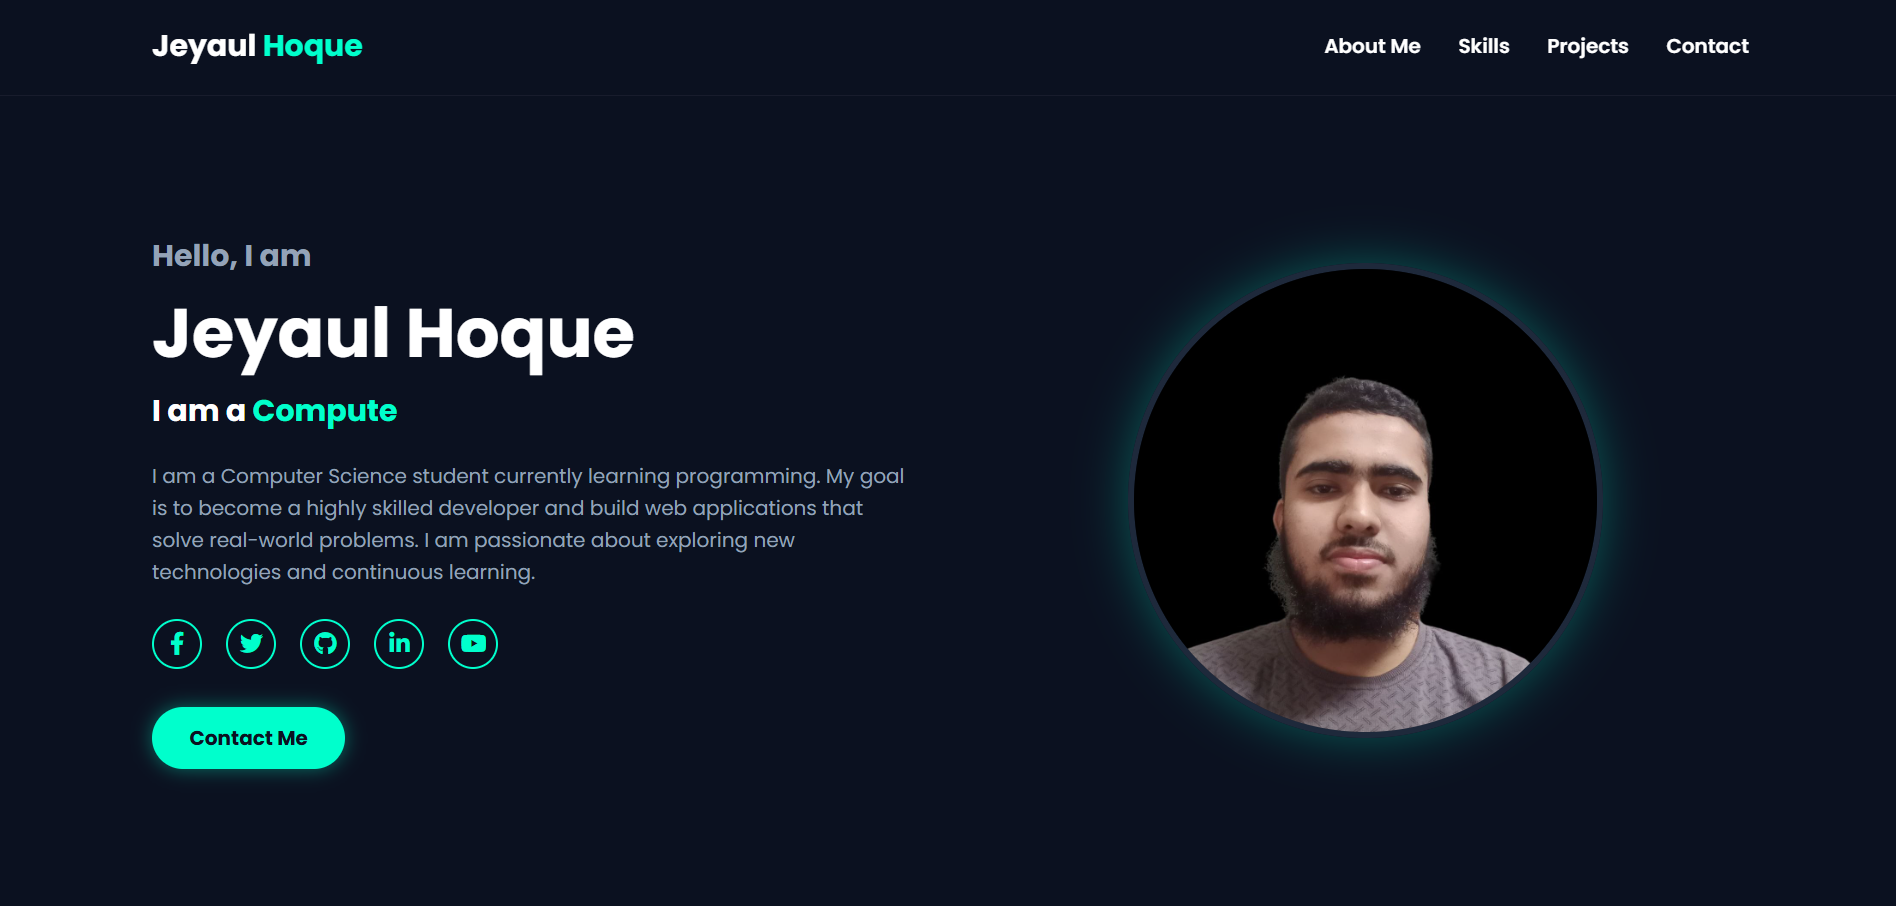
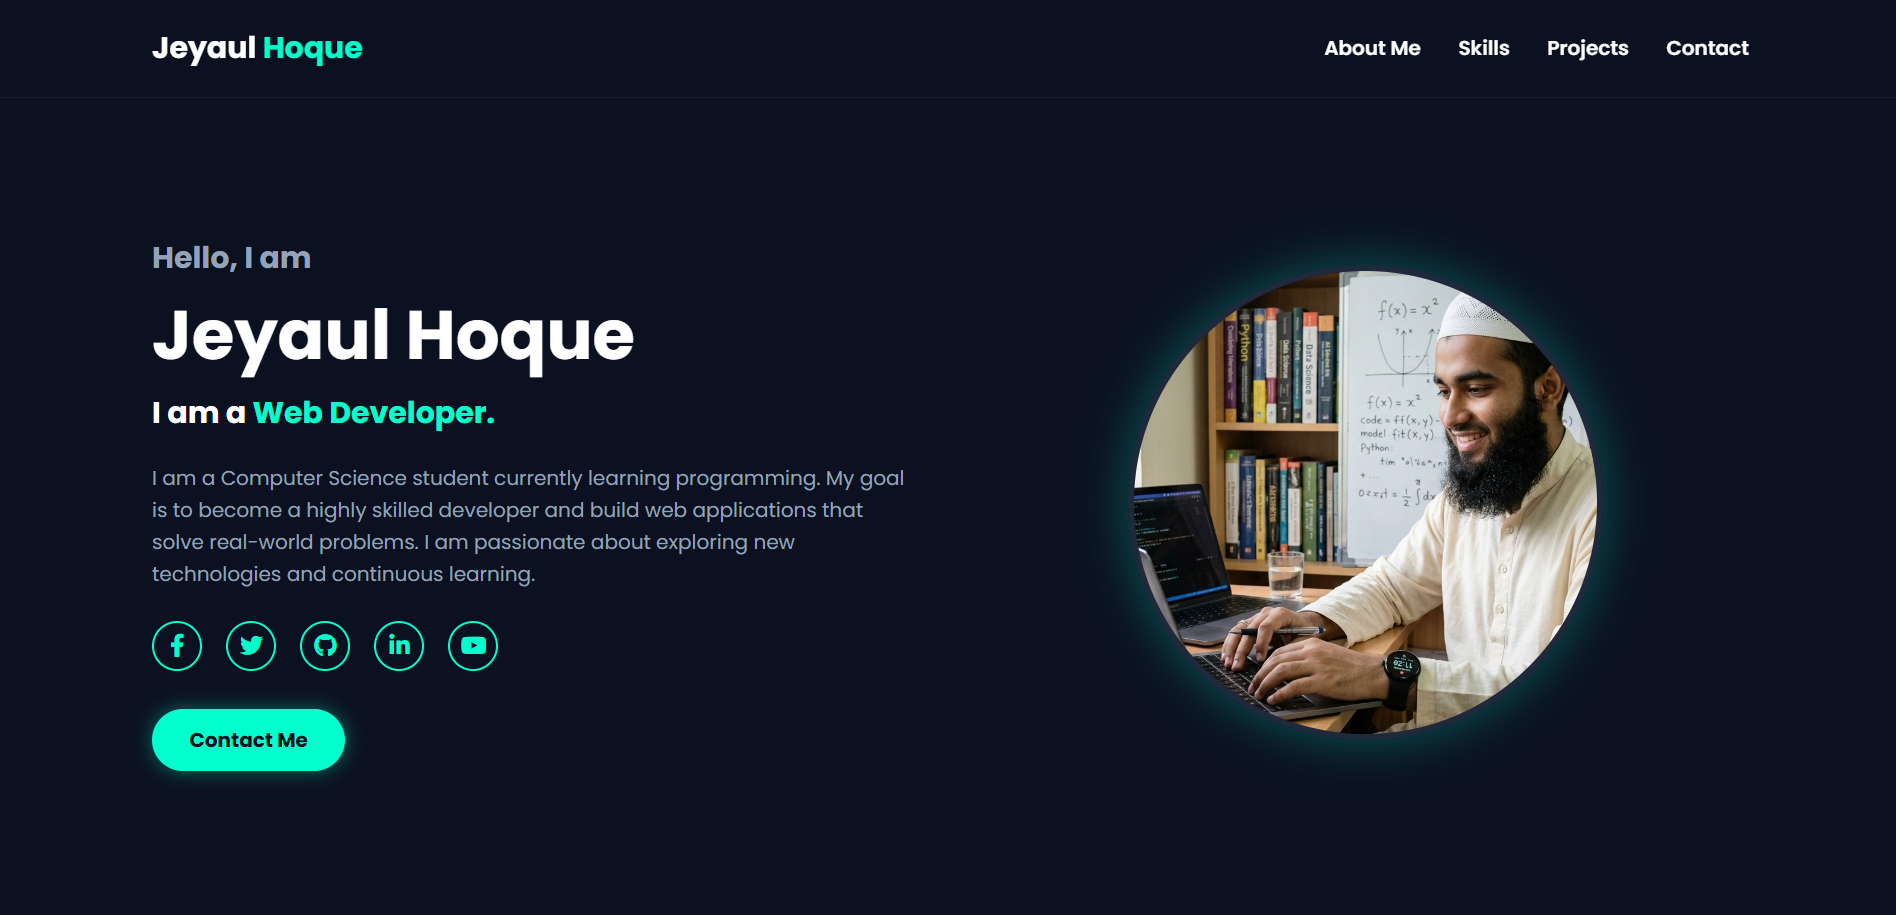
push the

diff --git a/index.html b/index.html
@@ -11,7 +11,7 @@
     <link rel="stylesheet" href="https://cdnjs.cloudflare.com/ajax/libs/font-awesome/6.4.0/css/all.min.css">
 </head>
 
-  <link rel="icon" type="image/png" href="img/IMG.jpg">
+  <link rel="icon" type="image/png" href="img/myimgw.png">
 
 <body>
 
@@ -49,7 +49,7 @@
             </div>
             <div class="image-box">
                 <!-- Keep your profile picture here -->
-                <img src="img/IMG.jpg" alt="Jeyaul Hoque">
+                <img src="img/myimgw.png" alt="Jeyaul Hoque">
             </div>
         </div>
     </section>
